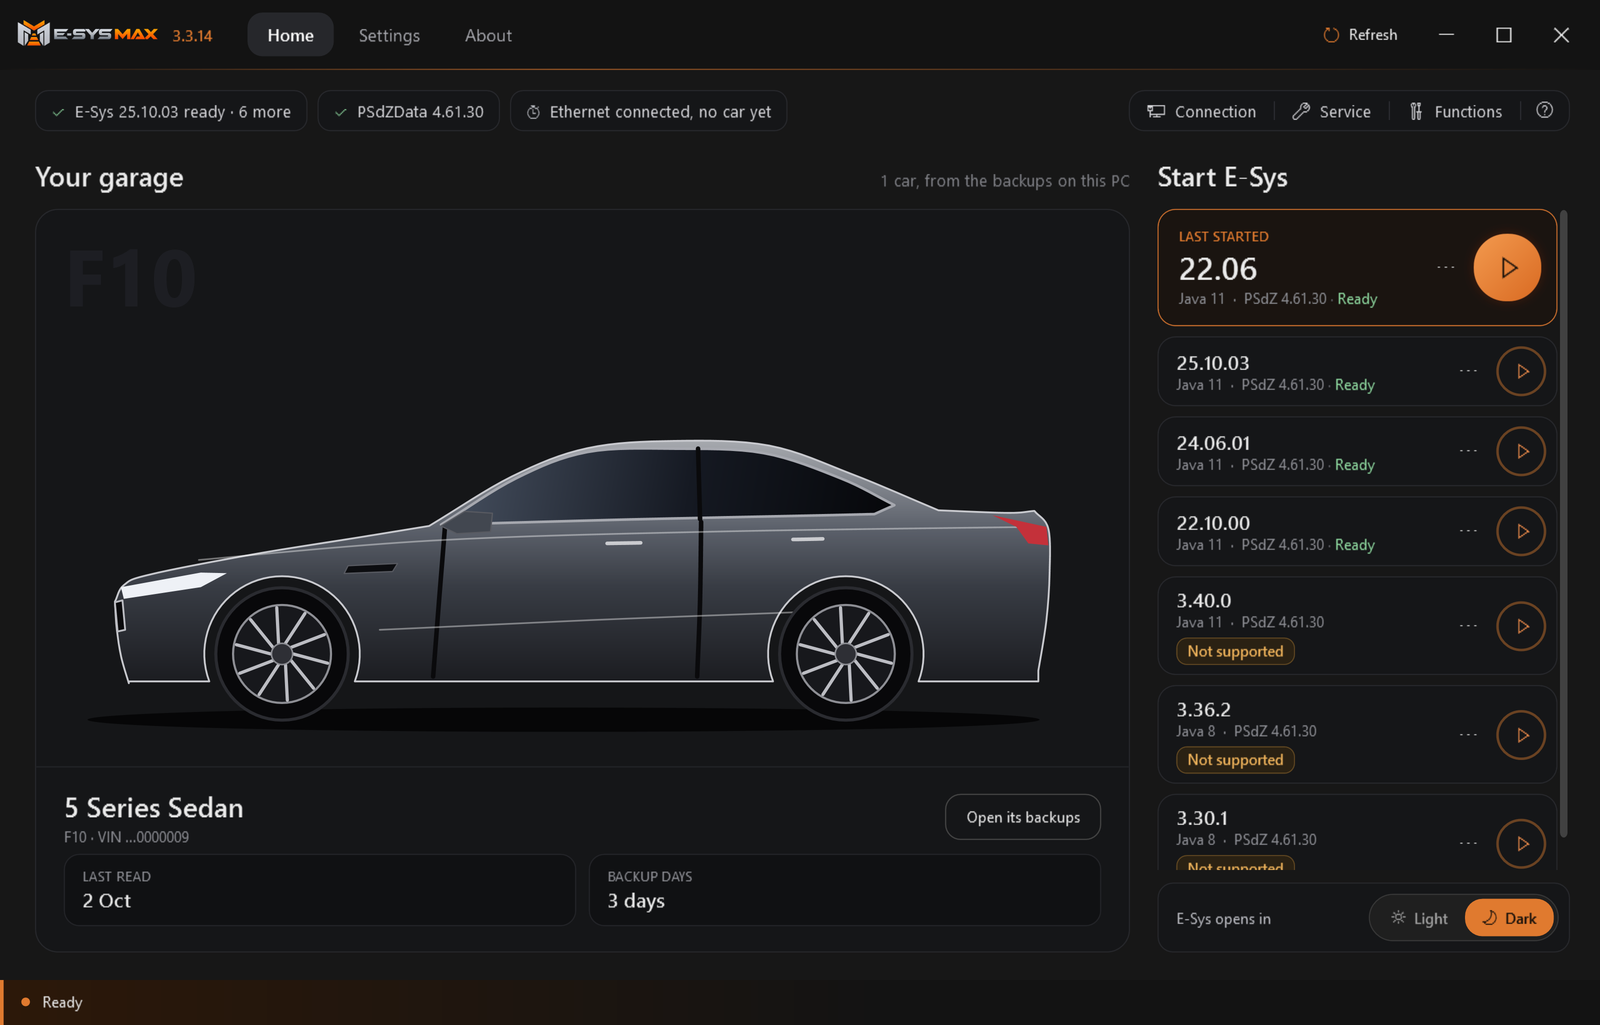
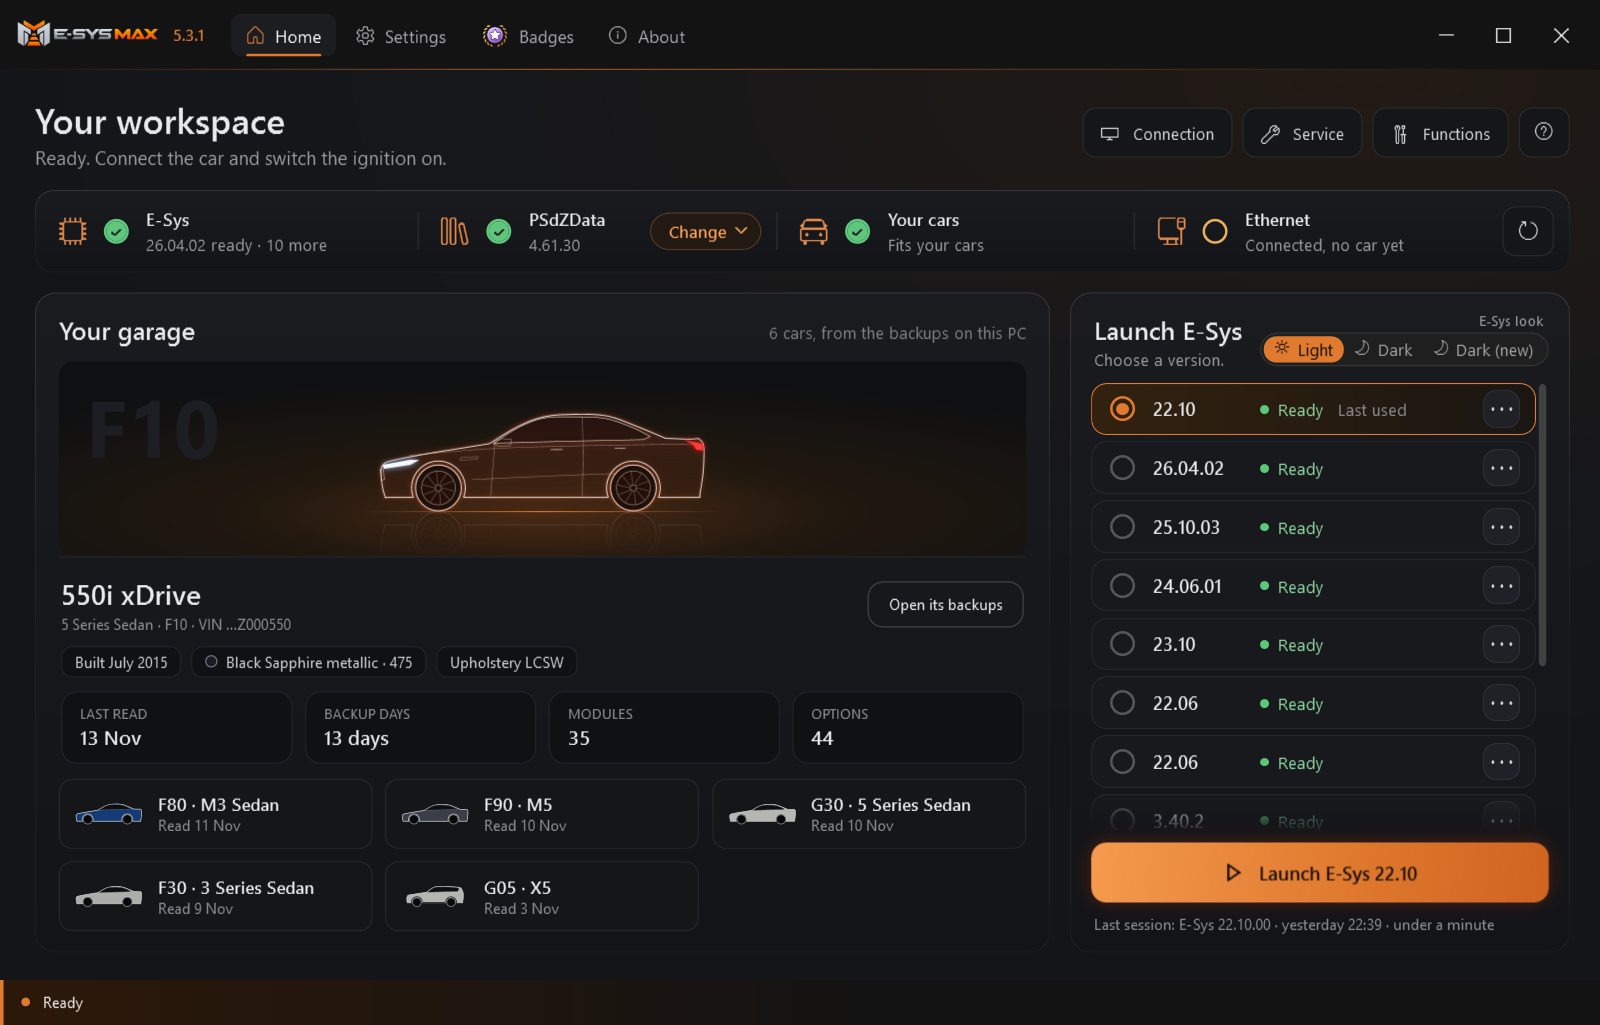
README: 139,000+ settings, 10 languages, new home and badges screenshots

diff --git a/README.md b/README.md
@@ -2,11 +2,13 @@
 
 **E-Sys MAX** is a Windows E-Sys launcher and add-on for coding BMW F series and G series cars with BMW E-Sys
 (and MINI and Toyota Supra built on them). An E-Sys Ultra alternative, made by KDR Coding.
+**139,000+ coding settings in plain English, in 10 languages.**
 
 [![Get E-Sys MAX](https://img.shields.io/badge/Get_it-esysmax.com%2Fbuy-e8772e?style=for-the-badge)](https://esysmax.com/buy)
+[![Lifetime $99](https://img.shields.io/badge/Lifetime-%2499_one_time-2b2b2b?style=for-the-badge)](https://esysmax.com/buy)
 [![Telegram](https://img.shields.io/badge/Telegram-t.me%2Fesysmax-229ED9?style=for-the-badge&logo=telegram&logoColor=white)](https://t.me/esysmax)
 
-![E-Sys MAX home: your garage and every E-Sys version ready to start](screenshots/home.png)
+![E-Sys MAX home: your garage, the car's build and options, and every E-Sys version ready to launch](screenshots/home.png)
 
 > **Like E-Sys MAX?** Tap the ⭐ **Star** button at the top of this page. It takes one second and helps other
 > BMW owners find it.
@@ -15,16 +17,22 @@
 
 - **[esysmax.com/buy](https://esysmax.com/buy)**: buy a licence, start a free trial with your card, or use an invite code.
   Your private download link comes right after (Windows 10 and 11).
+- Licences are one-time payments with every feature: 1 month $39, 1 year $59 or **lifetime $99**
+  (every update, priority support and setup help).
 - Every update and what it changed: [esysmax.com/changelog](https://esysmax.com/changelog)
 
 ## What it does
 
-- **110,000+ E-Sys coding settings named in English**: G series settings that E-Sys shows as a dot get their name
+- **139,000+ E-Sys coding settings named in English**: G series settings that E-Sys shows as a dot get their name,
+  and 5,600+ option codes are named too
+- **10 languages**: English, German, Spanish, Italian, Russian, Romanian, Turkish, Japanese, Chinese and Korean
 - Starts any E-Sys version with the right Java, memory and PSdZData; works over an ENET cable or a BMW ICOM
 - One-click coding changes (cheat sheets) and **what to code for a feature**: every module it needs
 - Vehicle order (VO) helper, FDL coding help, full backups and a history of every coding change
-- Fault scan with 9,000+ codes explained, **service reset** and service functions
+- **Car recovery**: compare the car today with a full backup (vehicle order, coding, modules and faults)
+- Fault scan of every module with 9,000+ codes explained, **service reset** and service functions
 - Car report as a PDF: options, modules and coding of the car
+- **Badges and levels**: real coding work earns badges and a rank, from bronze up to mythic
 
 ## Screenshots
 
@@ -55,7 +63,10 @@
 ### Module names right in E-Sys
 ![E-Sys SVT with module names and NCD files](screenshots/svt-ncd.png)
 
-<sub>Screenshots use a demo car with a made-up VIN.</sub>
+### Badges and levels
+![Badges page: level, points and badges earned by real coding work](screenshots/badges.png)
+
+<sub>Screenshots use demo cars with made-up VINs.</sub>
 
 ## Guides and support
 
